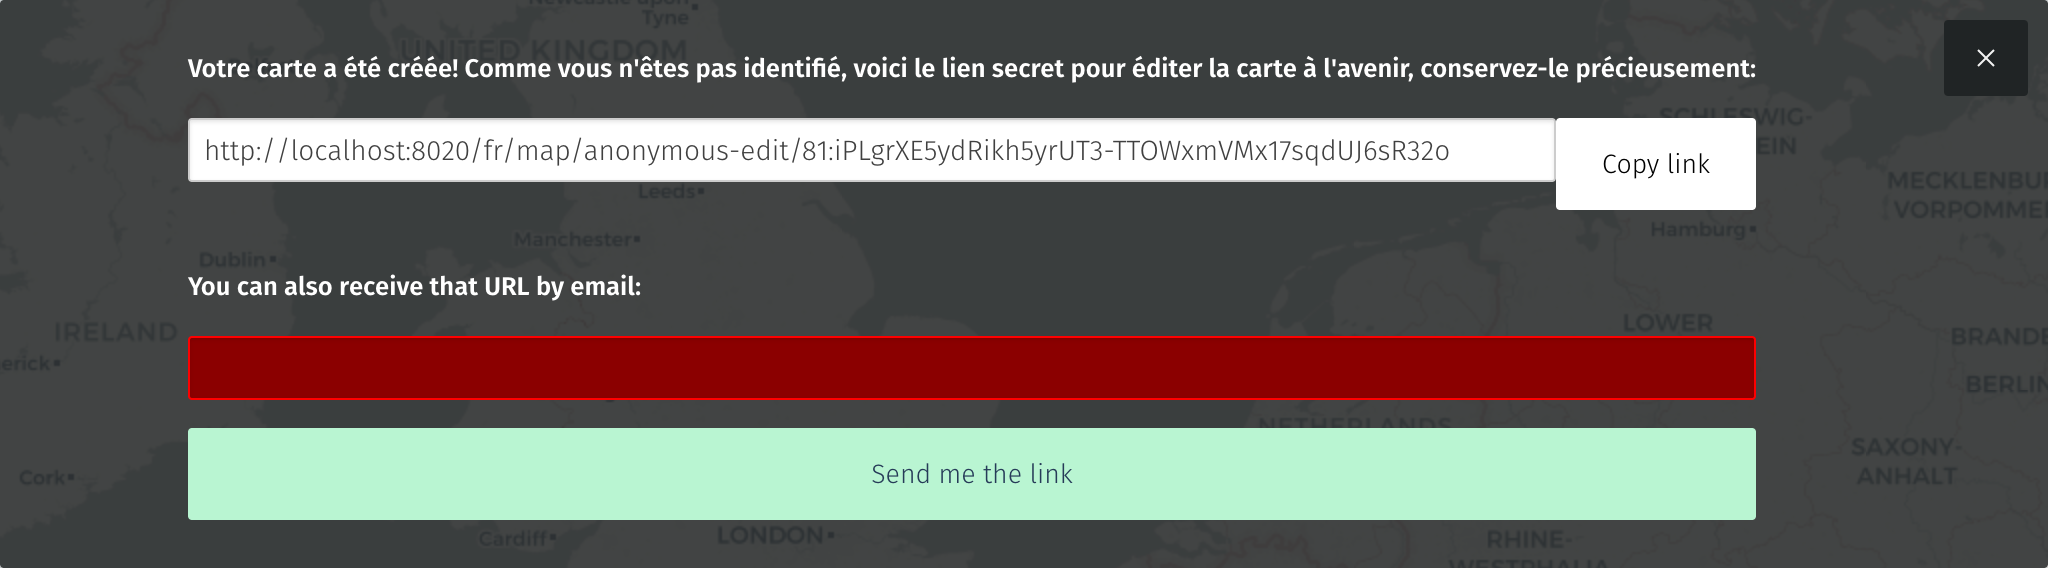
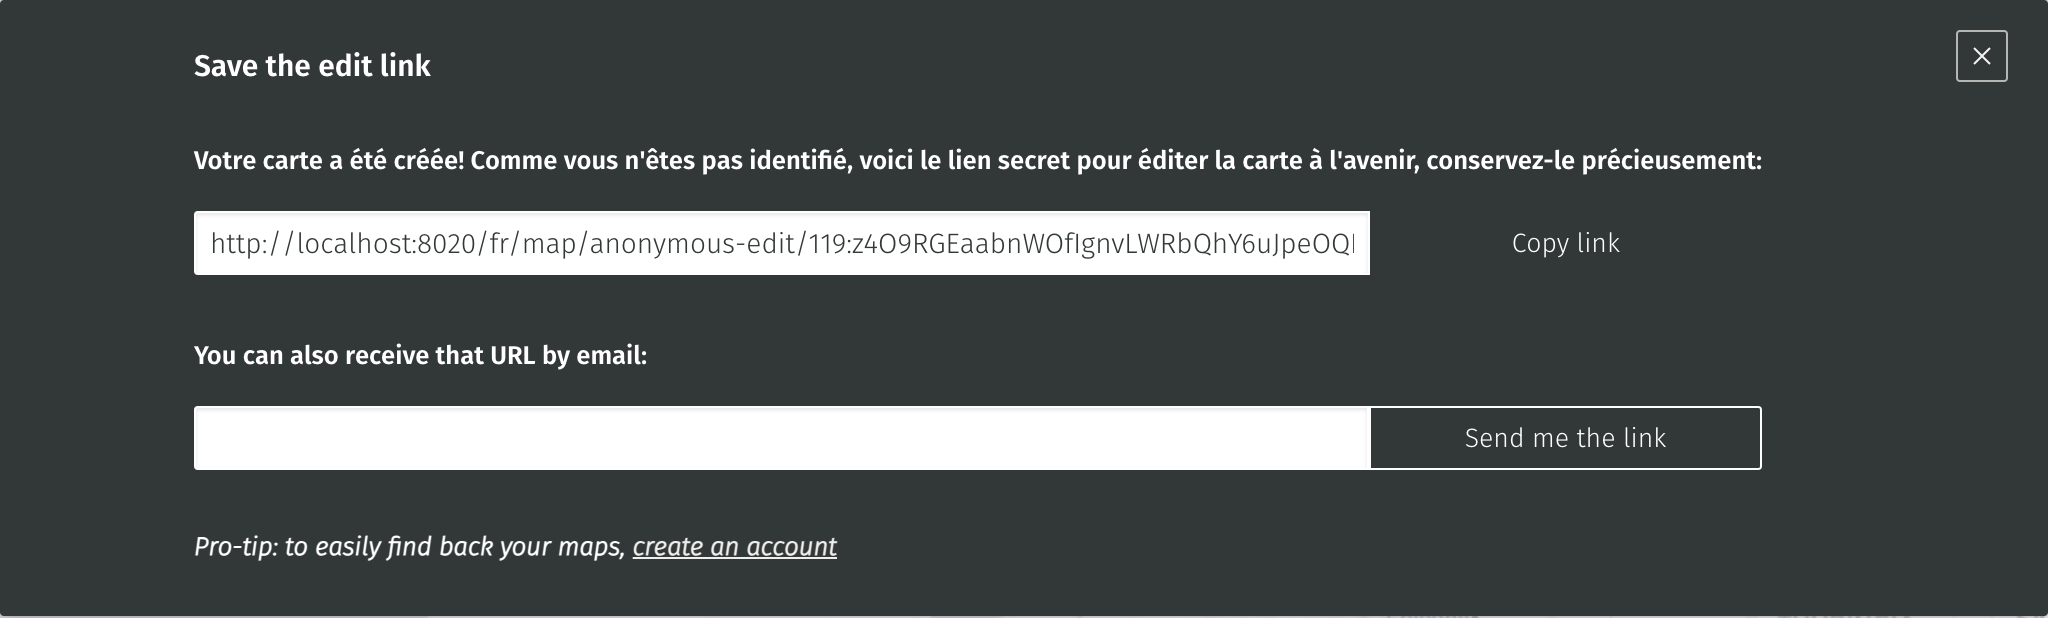
docs: update screenshot for anonymous save

diff --git a/docs-users/fr/tutorials/2-first-map.md b/docs-users/fr/tutorials/2-first-map.md
@@ -97,7 +97,9 @@ donne un lien (une URL) pour pouvoir modifier la carte. En effet la
 carte que vous avez créée n’est associée à aucun compte, et **uMap**
 considère que seules les personnes ayant ce *lien secret* peuvent la
 modifier. Vous devez donc conserver ce lien si vous souhaitez pouvoir
-modifier la carte. Nous verrons dans [le prochain tutoriel](3-create-account.md)
+modifier la carte ou saisir votre adresse de courriel pour le recevoir.
+
+Nous verrons dans [le prochain tutoriel](3-create-account.md)
 comment créer son catalogue de cartes en utilisant un compte, il n’est alors pas
 nécessaire de conserver de lien secret.
 
